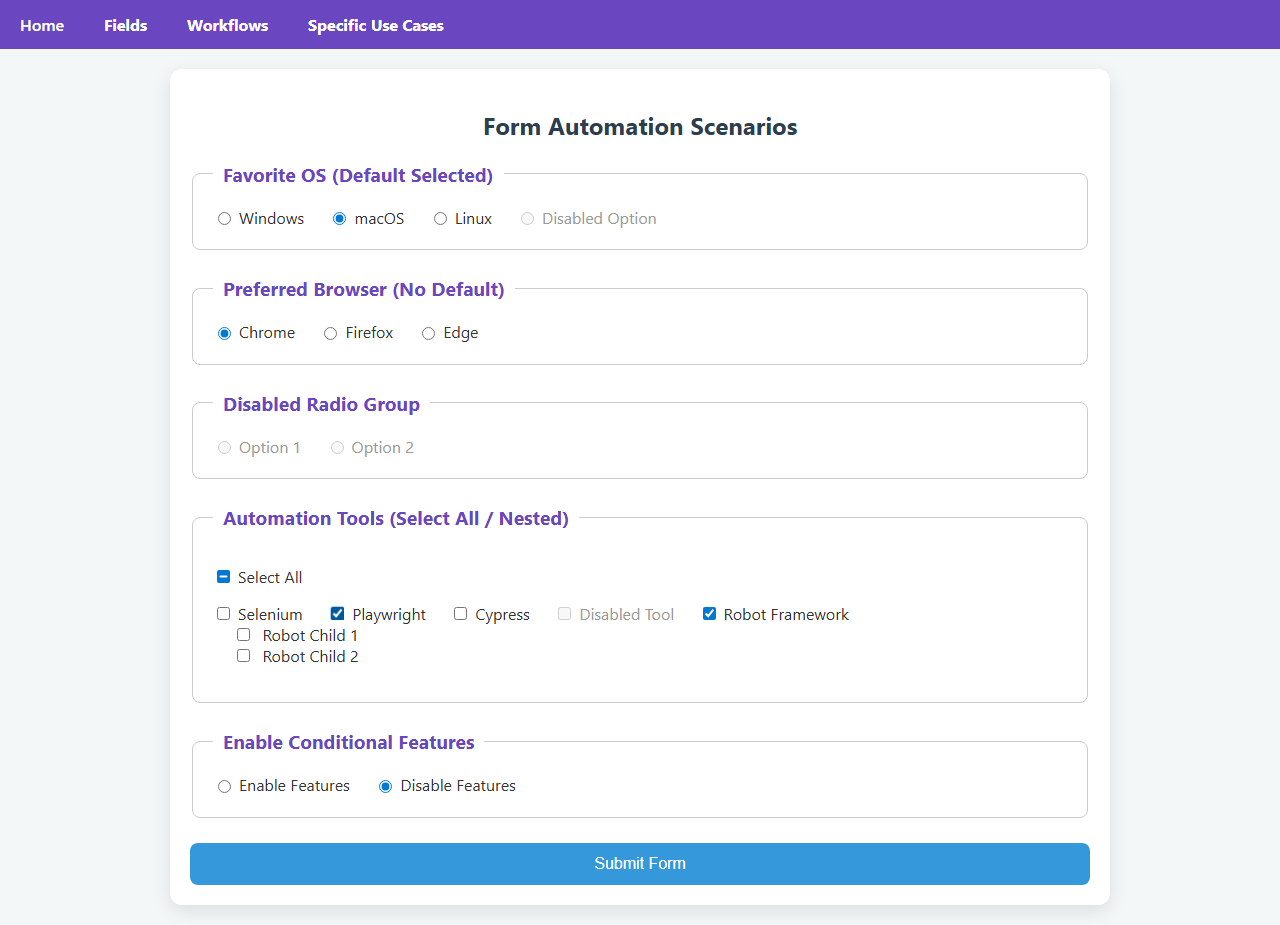
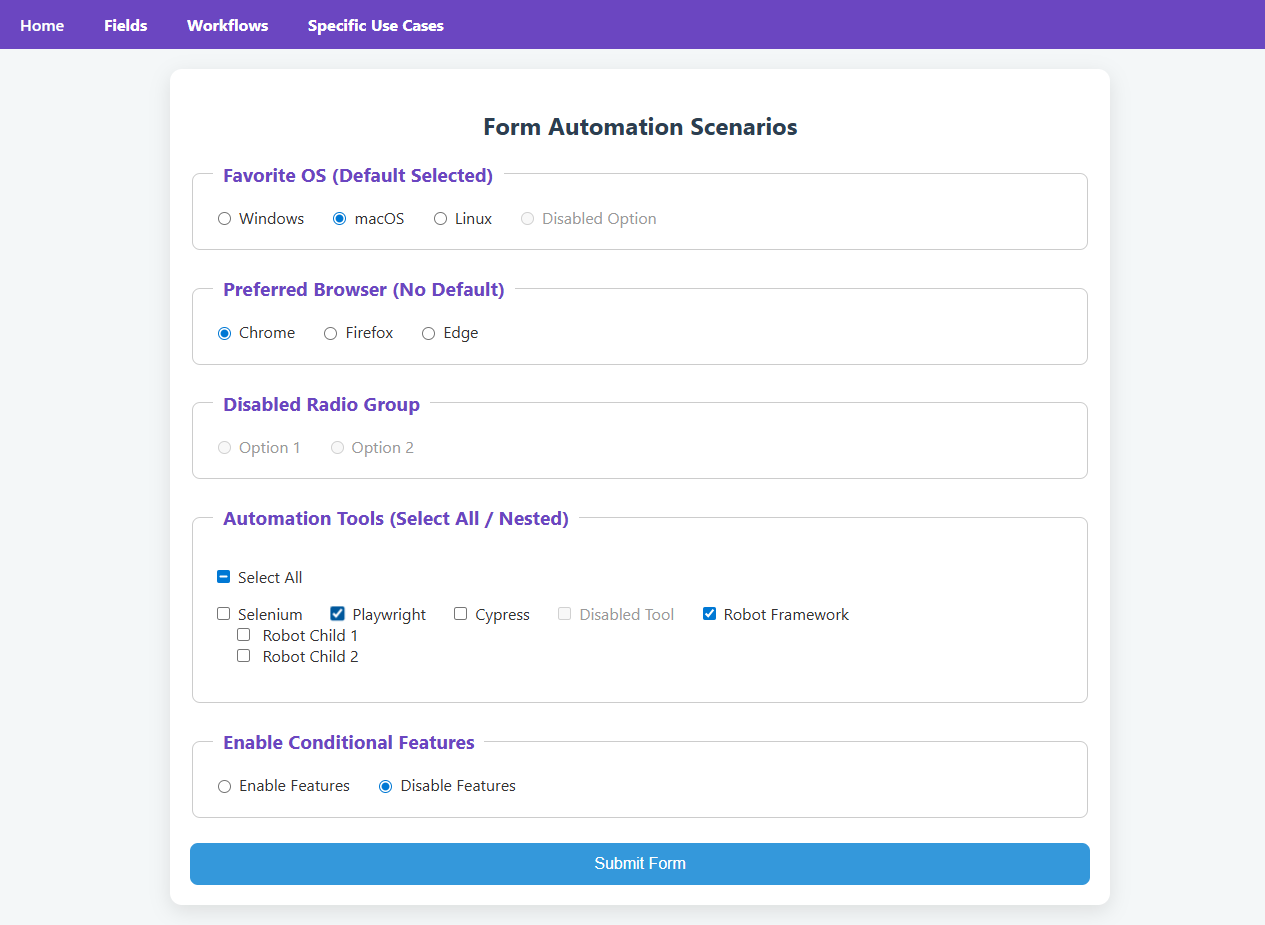
chnage two

diff --git a/tests/test/DataLayer.spec.ts b/tests/test/DataLayer.spec.ts
@@ -1,0 +1,54 @@
+import { test, expect } from '@playwright/test';
+
+test('Validate Product View Data Layer Event', async ({ page }) => {
+
+  // Wait for the analytics request
+  const productViewResponse = page.waitForResponse(async (response) => {
+
+    const url = response.url();
+
+    // Update this condition based on the actual analytics endpoint
+    if (
+      url.includes('analytics') ||
+      url.includes('collect') ||
+      url.includes('events')
+    ) {
+
+      const body = await response.text();
+
+      return body.includes('ecommerce:productview');
+    }
+
+    return false;
+  });
+
+  // Navigate to the website
+  await page.goto('https://www.solventum.com/');
+
+  // Navigate to any Product Detail Page (PDP)
+  // Replace this locator with the correct product locator
+  await page.locator('a').filter({ hasText: 'Product' }).first().click();
+
+  // Wait until page is fully loaded
+  await page.waitForLoadState('networkidle');
+
+  // Capture response
+  const response = await productViewResponse;
+
+  // Convert response to JSON
+  const data = await response.json();
+
+  console.log(JSON.stringify(data, null, 2));
+
+  // Validations
+  expect(data.event).toBe('ecommerce:productview');
+
+  expect(data.productListitems[0].productSku).toBeTruthy();
+
+  expect(data.eventData.stockAvailability).toBeTruthy();
+
+  expect(data.eventData.agreementId).toBeTruthy();
+
+  expect(data.eventData.userId).toBeTruthy();
+
+});

diff --git a/tests/test/auth.spec.ts b/tests/test/auth.spec.ts
@@ -1,0 +1,16 @@
+import {test,expect} from '@playwright/test';
+import {AuthAPI} from '../Page/api/AuthAPI';
+
+test('Generate Token',async({request})=>{
+
+    const auth=new AuthAPI(request);
+
+    const response=await auth.createToken();
+
+    expect(response.status()).toBe(200);
+
+    const body=await response.json();
+
+    expect(body.token).toBeTruthy();
+
+});